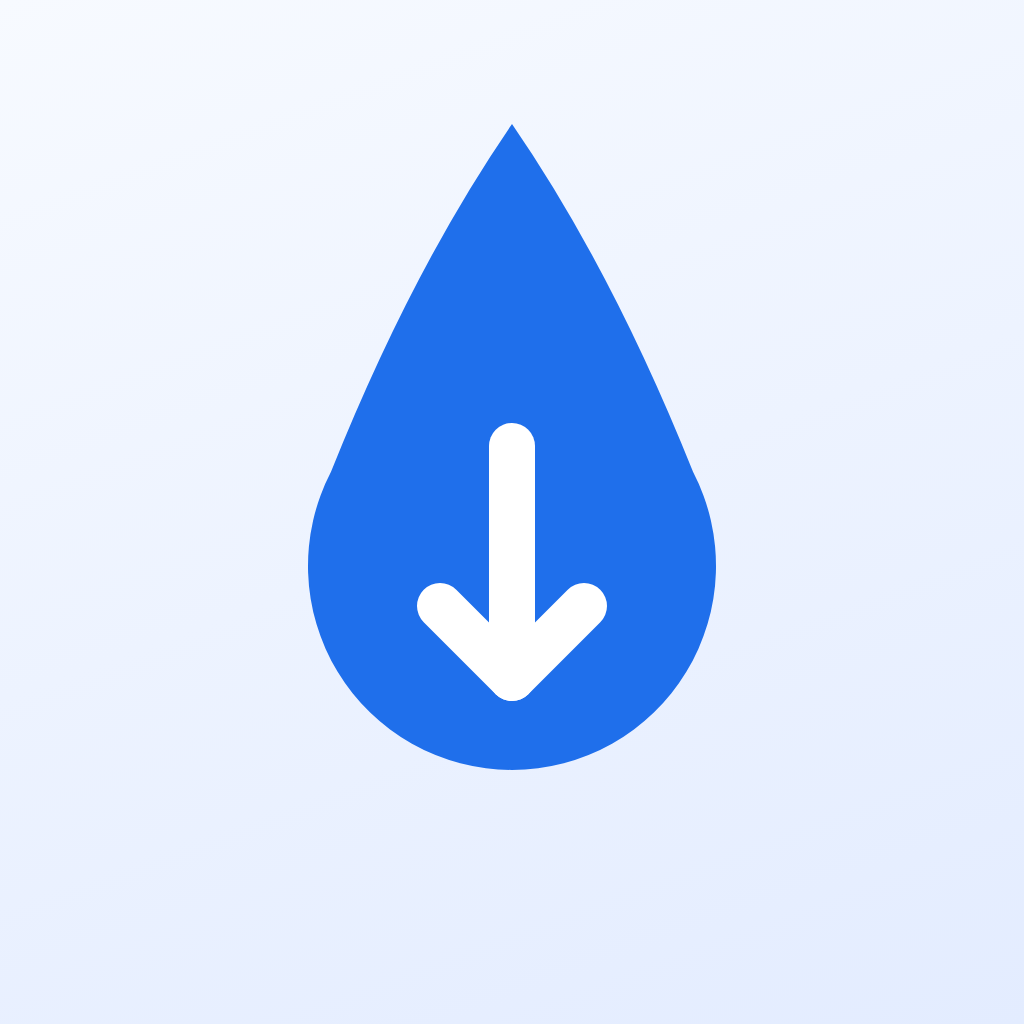
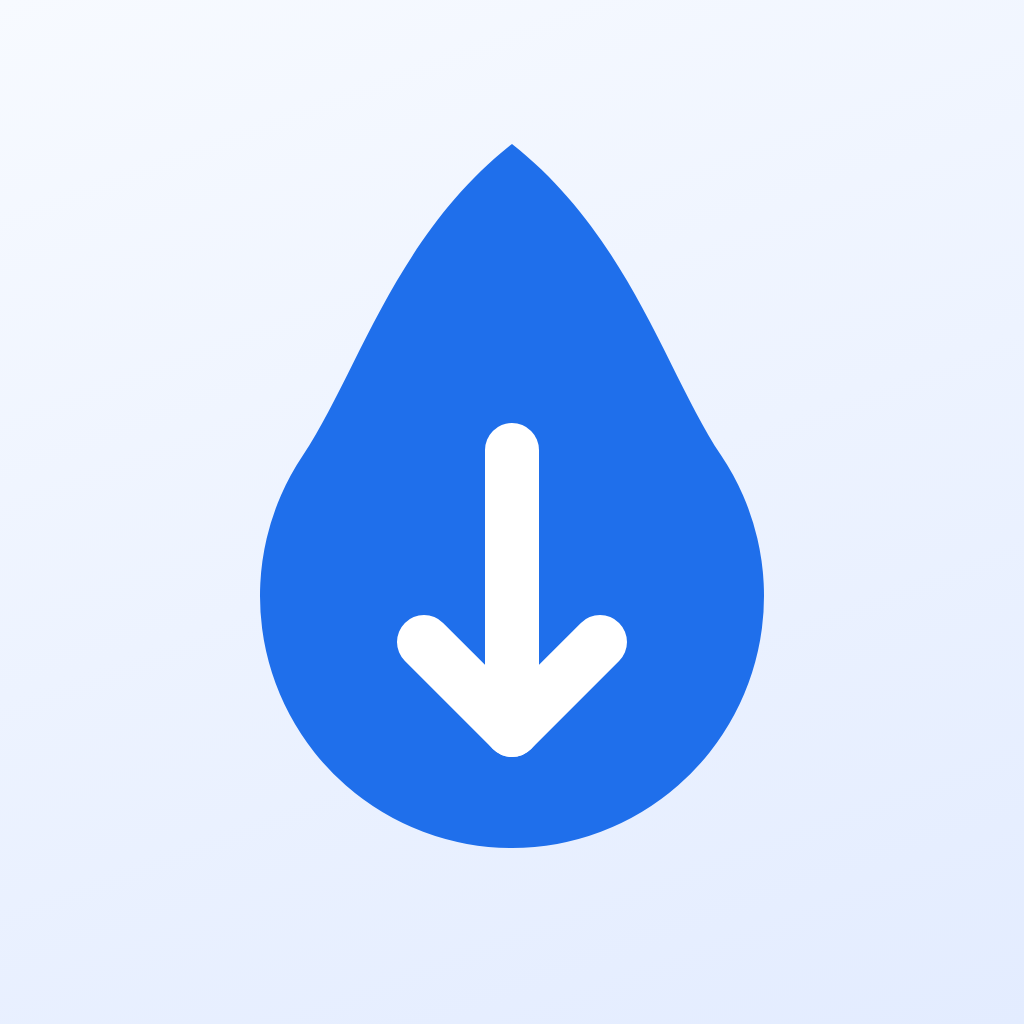
アイコン: 雫を大きく丸くし、肩の折れ目を無くした
ふくらませるとき、接点側の制御点を A→T の直線上に置かないと肩に折れ目が出る。
外へ押し出すだけの二次ベジエでは接線の向きが変わってしまうため。

Changed region(s): [[0.25, 0.1562, 0.75, 0.8438], [0.4688, 0.125, 0.5312, 0.1562]]

diff --git a/ios/アイコン/_生成元/icon-final.html b/ios/アイコン/_生成元/icon-final.html
@@ -6,10 +6,10 @@ svg{position:absolute;inset:0;width:1024px;height:1024px}</style>
 <div class="wrap">
   <div class="bg"></div>
   <svg viewBox="0 0 1024 1024">
-    <path d="M 512.0 124.0 Q 411.9 269.5 331.0 471.8 A 204 204 0 1 0 693.0 471.8 Q 612.1 269.5 512.0 124.0 Z" fill="#1F6FEB"/>
-    <g stroke="#fff" stroke-width="46" stroke-linecap="round" stroke-linejoin="round" fill="none">
-      <path d="M 512 446 V 678"/>
-      <path d="M 440 606 L 512 678 L 584 606"/>
+    <path d="M 512.0 144.0 C 394.3 236.7 357.2 374.5 302.8 455.5 A 252 252 0 1 0 721.2 455.5 C 666.8 374.5 629.7 236.7 512.0 144.0 Z" fill="#1F6FEB"/>
+    <g stroke="#fff" stroke-width="54" stroke-linecap="round" stroke-linejoin="round" fill="none">
+      <path d="M 512 450 V 730"/>
+      <path d="M 424 642 L 512 730 L 600 642"/>
     </g>
   </svg>
 </div>

diff --git a/ios/アイコン/_生成元/drop.py b/ios/アイコン/_生成元/drop.py
@@ -18,15 +18,22 @@ def drop_path(cx, cy, r, height, bulge=0.0):
         left  = f"L {p1[0]:.1f} {p1[1]:.1f}"
         right = f"L {ax:.1f} {ay:.1f}"
     else:
-        # 接線の中点を外へ押し出した二次ベジエ。接点での向きは接線のまま
-        def ctrl(p):
-            mx, my = (ax + p[0]) / 2, (ay + p[1]) / 2
-            nx, ny = (mx - cx), (my - cy)
+        # 🔴 ふくらませても、**接点では接線の向きを保つ**こと。
+        #    外へ押し出すだけだと肩に折れ目が出る（実際に出た）。
+        #    → 接点側の制御点は A→T の直線上に置き、先端側だけ外へ振る。
+        def ctrls(p):
+            dx, dy = p[0] - ax, p[1] - ay
+            nx, ny = -dy, dx                      # 接線に垂直な向き
             n = math.hypot(nx, ny) or 1
-            return (mx + nx / n * bulge, my + ny / n * bulge)
-        c1, c2 = ctrl(p1), ctrl(p2)
-        left  = f"Q {c1[0]:.1f} {c1[1]:.1f} {p1[0]:.1f} {p1[1]:.1f}"
-        right = f"Q {c2[0]:.1f} {c2[1]:.1f} {ax:.1f} {ay:.1f}"
+            side = 1 if p[0] < cx else -1          # 左右それぞれ外向きへ
+            c1 = (ax + dx * 0.38 + nx / n * bulge * side,
+                  ay + dy * 0.38 + ny / n * bulge * side)
+            c2 = (ax + dx * 0.74, ay + dy * 0.74)  # 直線上＝接点で接する
+            return c1, c2
+        a1, a2 = ctrls(p1)
+        b1, b2 = ctrls(p2)
+        left  = f"C {a1[0]:.1f} {a1[1]:.1f} {a2[0]:.1f} {a2[1]:.1f} {p1[0]:.1f} {p1[1]:.1f}"
+        right = f"C {b2[0]:.1f} {b2[1]:.1f} {b1[0]:.1f} {b1[1]:.1f} {ax:.1f} {ay:.1f}"
     # 先端 → 左の接点 → 下側の円弧 → 右の接点 → 先端
     return (f"M {ax:.1f} {ay:.1f} {left} "
             f"A {r} {r} 0 1 0 {p2[0]:.1f} {p2[1]:.1f} {right} Z")

diff --git a/ios/アイコン/_生成元/icon-final.py b/ios/アイコン/_生成元/icon-final.py
@@ -7,10 +7,11 @@ from drop import drop_path
 CHROME = "/Applications/Google Chrome.app/Contents/MacOS/Google Chrome"
 OUT = os.path.abspath("../AppIcon.png")
 
-CX, CY, R = 512, 566, 204          # 雫の丸い部分
-DROP = drop_path(CX, CY, R, 442, bulge=30)
-AY = CY - 4                        # 矢印の中心。丸い部分の中に収める
-LEN, HALF = 116, 72                # 矢羽根の長さと開き
+# 大きく・丸く。height/R を小さくするほど先が丸くなる（2.2→1.8）
+CX, CY, R = 512, 596, 252
+DROP = drop_path(CX, CY, R, 452, bulge=46)
+AY = CY - 6                        # 矢印の中心。丸い部分の中に収める
+LEN, HALF = 140, 88                # 矢羽根の長さと開き
 
 HTML = f"""<!doctype html><meta charset="utf-8">
 <style>html,body{{margin:0;width:1024px;height:1024px;overflow:hidden}}
@@ -21,7 +22,7 @@ svg{{position:absolute;inset:0;width:1024px;height:1024px}}</style>
   <div class="bg"></div>
   <svg viewBox="0 0 1024 1024">
     <path d="{DROP}" fill="#1F6FEB"/>
-    <g stroke="#fff" stroke-width="46" stroke-linecap="round" stroke-linejoin="round" fill="none">
+    <g stroke="#fff" stroke-width="54" stroke-linecap="round" stroke-linejoin="round" fill="none">
       <path d="M {CX} {AY-LEN} V {AY+LEN}"/>
       <path d="M {CX-HALF} {AY+LEN-HALF} L {CX} {AY+LEN} L {CX+HALF} {AY+LEN-HALF}"/>
     </g>
